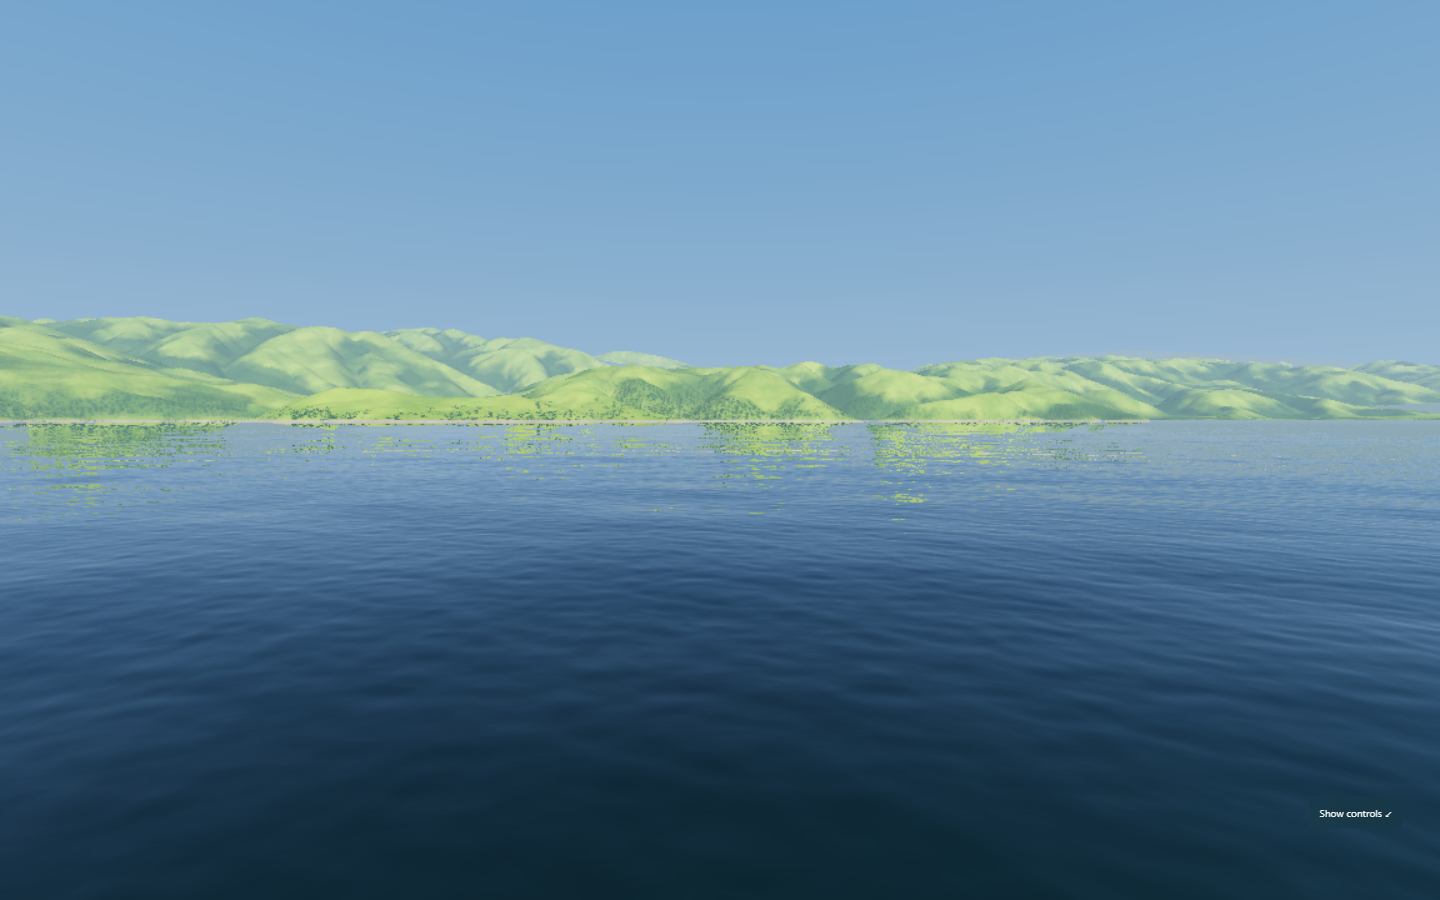
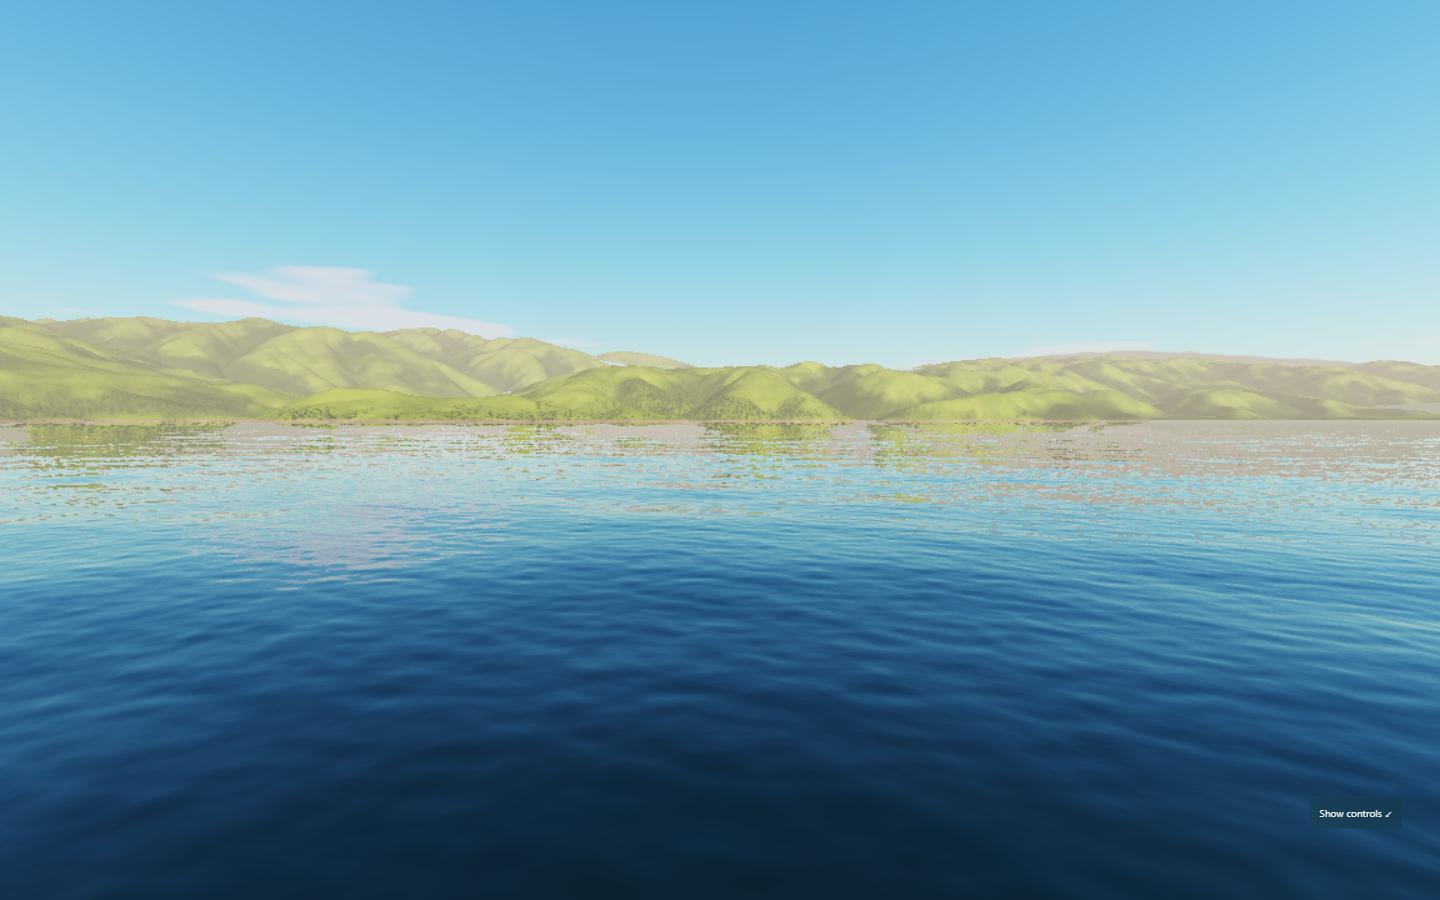
Light the scene from presets; Preetham sky with drifting clouds
sky() is the Preetham model with SkyMesh's cloud layer, ported to CUDA
(acos via Abramowitz & Stegun, the transpiler has no acosf), scaled per
preset by skyGain (morning 1.0, midday 0.3, golden 2.0). Sun direction,
radiance, fill and haze come from a six-float4 preset buffer shared by sky,
land, water and caustics.

diff --git a/renderer/explore.js b/renderer/explore.js
@@ -1,6 +1,7 @@
 import { GpuRuntime } from "../vendor/cuda-webshader/runtime/runtime.js";
 import { formatElevation, formatLatLon, loadTerrain } from "./terrain.js";
 import { QualityGovernor, TIER_NAMES, forcedTier, startingLevel } from "./quality.js";
+import { PRESETS, choosePreset, presetBuffer } from "./land/presets.js";
 const $ = (id) => document.getElementById(id),
   canvas = $("water"),
   q = new URLSearchParams(location.search);
@@ -57,6 +58,7 @@ const state = {
   pitch: 0,
   speed: 40,
   quality: 2,
+  preset: "golden",
   viewpoint: "overlook",
   time: q.has("t") ? Number(q.get("t")) : 0,
   playing: !q.has("t"),
@@ -99,6 +101,8 @@ let rt,
   last = 0,
   accumulator = 0,
   tap = null,
+  lightBuf,
+  landProfile = null,
   governor = null,
   failed = false,
   locked = false;
@@ -174,6 +178,15 @@ canvas.addEventListener("pointermove", (e) => (hover = e));
 canvas.addEventListener("pointerleave", () => (hover = null));
 // GPU chip and the "use your faster GPU" tip (browsers on dual-GPU laptops default to the
 // integrated GPU and ignore a page's powerPreference, so only the visitor can change it).
+// Lighting preset: the shader reads six float4s (sun, radiance, fill, sky, haze, clouds).
+function applyPreset(name) {
+  state.preset = choosePreset(name, landProfile);
+  const p = PRESETS[state.preset];
+  rt.write(lightBuf, presetBuffer(p));
+  $("exposure").value = String(p.exposure);
+  $("exposure").dispatchEvent(new Event("input"));
+  diag.preset = state.preset;
+}
 function tipDismissed() {
   try {
     return localStorage.getItem("waterscape.gpuTipDismissed") === "1";
@@ -403,13 +416,13 @@ function render() {
   batch
     .dispatch(k.clear_caustics.bind({ photons }), [64, 64, 1])
     .dispatch(
-      k.trace_caustics.bind({ surface, photons }, { depth: +$("depth").value }),
+      k.trace_caustics.bind({ surface, photons, light: lightBuf }, { depth: +$("depth").value }),
       [128, 128, 1],
     )
     .dispatch(k.filter_caustics.bind({ photons, caustics }), [64, 64, 1]);
   batch.dispatch(
     k.render_water.bind(
-      { surface, rip: ripNormals, caustics, pebbles, terrain: terrainCells, hdr },
+      { surface, rip: ripNormals, caustics, pebbles, terrain: terrainCells, light: lightBuf, hdr },
       {
         width,
         height,
@@ -752,6 +765,9 @@ try {
   terrain = await loadTerrain(new URL("terrain", bundleBase).href);
   VIEWPOINTS = (await (await fetch(new URL("cameras.json", bundleBase))).json()).viewpoints;
   terrainCells = rt.createBuffer(terrain.gpuCells());
+  landProfile = await (await fetch(new URL("land.json", bundleBase))).json();
+  lightBuf = rt.createBuffer(24 * 4);
+  applyPreset(q.get("preset"));
   diag.location = terrain.meta.name;
   diag.coordinates = terrain.latLon(0, 0);
   document.title = `${terrain.meta.name} · Waterscape`;

diff --git a/renderer/land/presets.js b/renderer/land/presets.js
@@ -16,22 +16,22 @@ export const PRESETS = {
     sun: unit([0.93, 0.28, 0.24]),
     sunColor: [2.2, 1.8, 1.35],
     fill: [0.34, 0.42, 0.56],
-    skyGain: 1.3,
-    turbidity: 3, rayleigh: 1.2, mieCoefficient: 0.006, mieG: 0.82,
-    cloudCoverage: 0.3, cloudDensity: 0.4, cloudScale: 0.0002, cloudSpeed: 0.00002,
+    skyGain: 1.0,
+    turbidity: 3, rayleigh: 1.2, mieCoefficient: 0.004, mieG: 0.82,
+    cloudCoverage: 0.42, cloudDensity: 0.4, cloudScale: 0.0002, cloudSpeed: 0.00002,
     haze: [0.72, 0.72, 0.74], hazeDensity: 0.00024,
     exposure: 0.85,
   },
   midday: {
     label: "Midday",
     sun: unit([0.05, 0.91, 0.41]),
-    sunColor: [2.1, 2.0, 1.9],
+    sunColor: [1.75, 1.68, 1.6],
     fill: [0.36, 0.46, 0.62],
     skyGain: 0.3,
     turbidity: 2.5, rayleigh: 1.0, mieCoefficient: 0.004, mieG: 0.8,
-    cloudCoverage: 0.35, cloudDensity: 0.45, cloudScale: 0.0002, cloudSpeed: 0.00002,
+    cloudCoverage: 0.48, cloudDensity: 0.45, cloudScale: 0.0002, cloudSpeed: 0.00002,
     haze: [0.6, 0.7, 0.82], hazeDensity: 0.00016,
-    exposure: 0.75,
+    exposure: 0.62,
   },
   golden: {
     label: "Golden hour",
@@ -40,8 +40,8 @@ export const PRESETS = {
     fill: [0.3, 0.34, 0.44],
     skyGain: 2.0,
     turbidity: 4, rayleigh: 1.4, mieCoefficient: 0.005, mieG: 0.85,
-    cloudCoverage: 0.4, cloudDensity: 0.5, cloudScale: 0.0002, cloudSpeed: 0.00002,
-    haze: [0.78, 0.66, 0.55], hazeDensity: 0.0002,
+    cloudCoverage: 0.52, cloudDensity: 0.5, cloudScale: 0.0002, cloudSpeed: 0.00002,
+    haze: [0.74, 0.71, 0.68], hazeDensity: 0.00017,
     exposure: 0.85,
   },
 };
